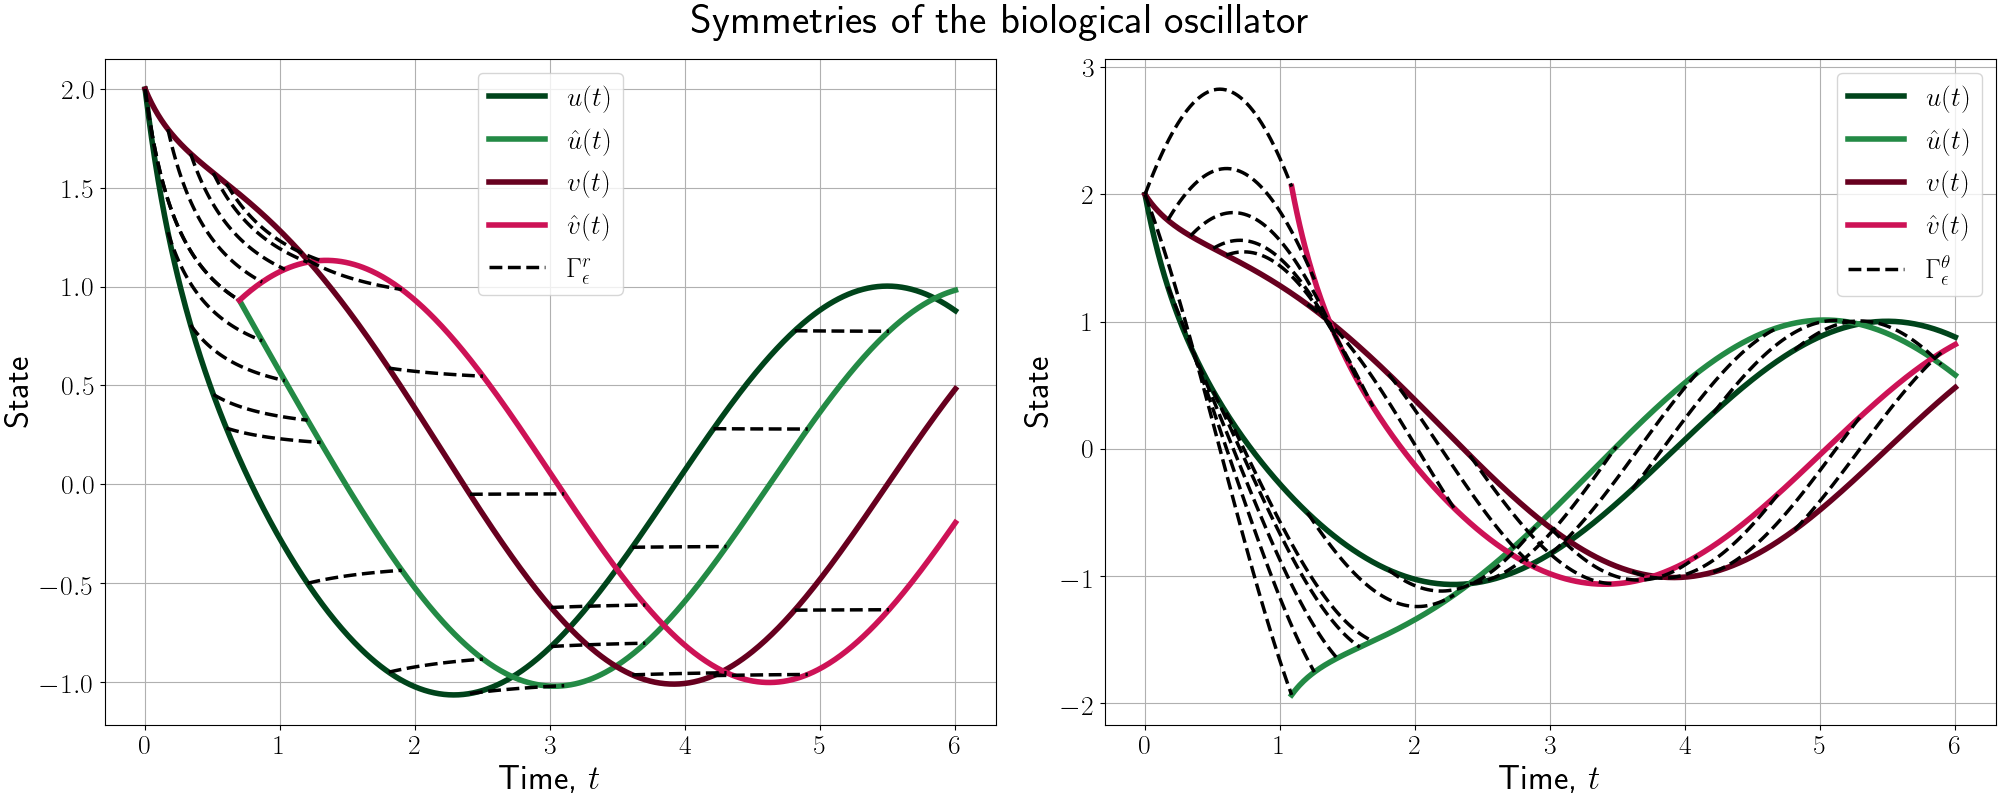
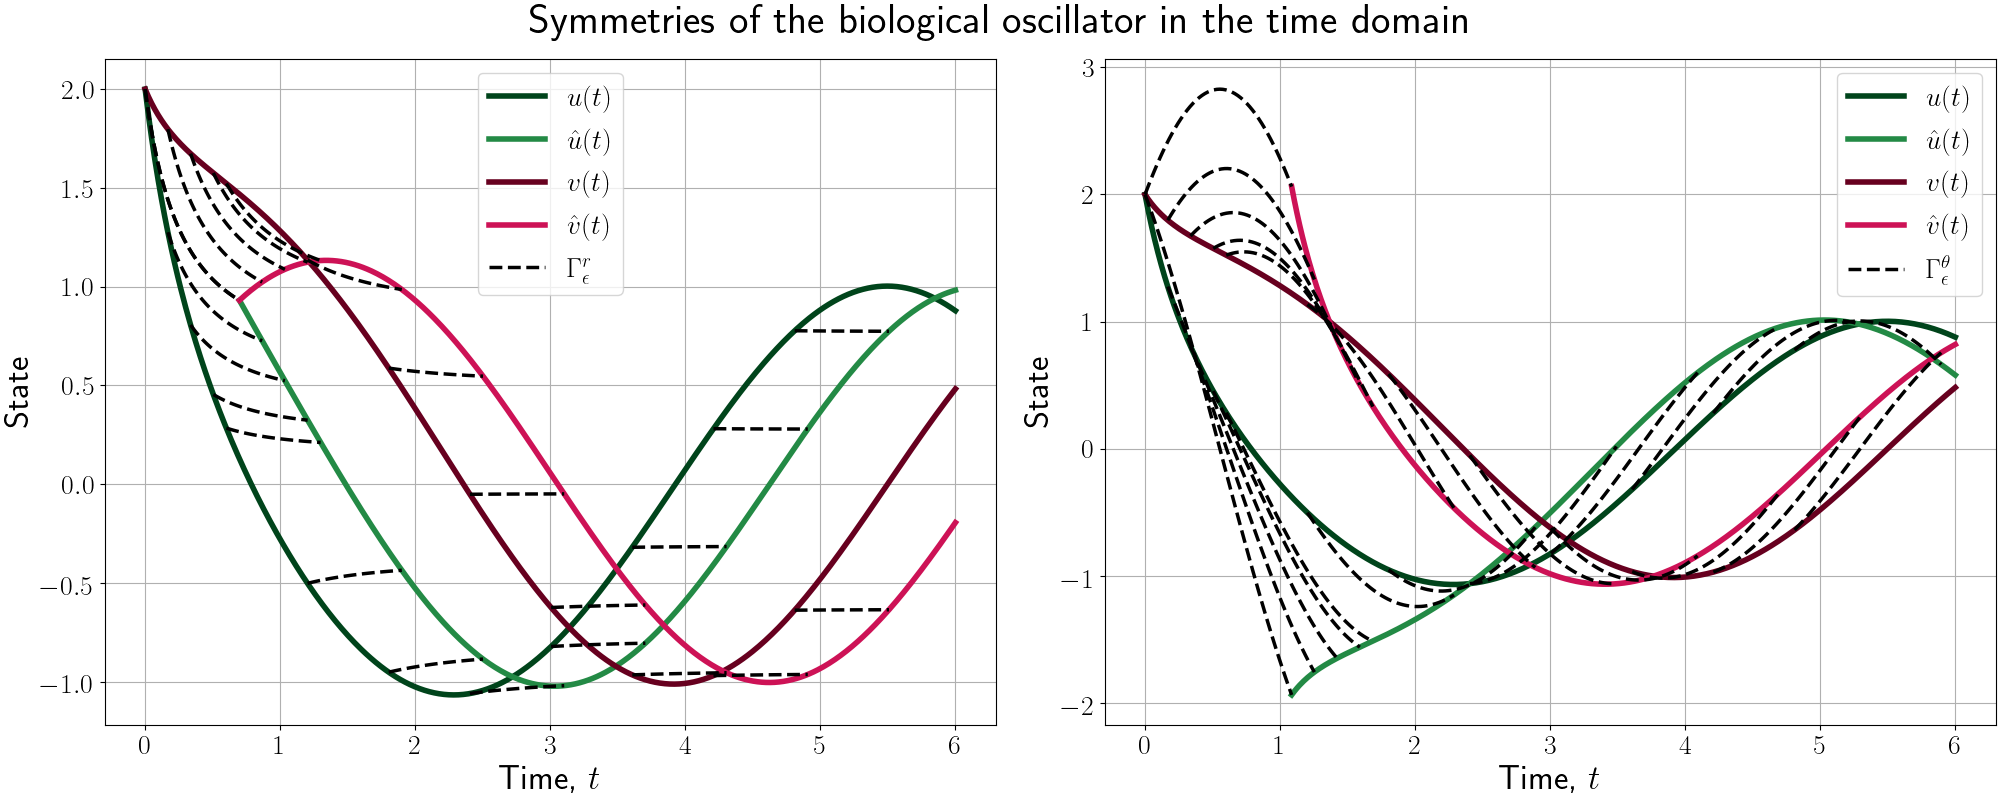
Change title of the figure with the biological oscillator in the time domain

Changed region(s): [[0.248, 0.0, 0.744, 0.0625]]

diff --git a/Code/biological_oscillator.py b/Code/biological_oscillator.py
@@ -271,7 +271,7 @@ ax_2[1].set_ylabel(ylabel="State",fontsize=25)
 ax_2[1].tick_params(axis='both', which='major', labelsize=20)
 ax_2[1].tick_params(axis='both', which='minor', labelsize=20)
 # We have a title of this figure as well
-f2.suptitle('Symmetries of the biological oscillator',fontsize=30,weight='bold')
+f2.suptitle('Symmetries of the biological oscillator in the time domain',fontsize=30,weight='bold')
 f2.savefig('../Figures/time_domain_symmetries_biological_oscillator.png')
 # Show the plot in the end
 plt.show()
